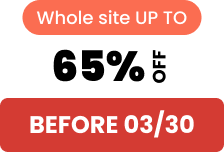
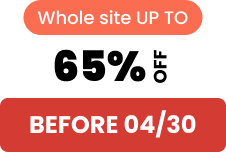
Update promo image, social media link

diff --git a/app/components/Footer/index.tsx b/app/components/Footer/index.tsx
@@ -48,6 +48,7 @@ function Footer({ categories }: FooterProps) {
         <div className="
           h-[105px] mt-10 w-full
           flex flex-col justify-between
+          max-w-screen-xl
           600:flex-row 600:mt-0
         ">
           <div className="
@@ -79,7 +80,7 @@ function Footer({ categories }: FooterProps) {
               className="mr-4"
               rel="noreferrer"
               target="_blank"
-              href="https://www.instagram.com/"
+              href="https://www.instagram.com/peasydeal"
             >
               <AiFillInstagram
                 color='#fff'
@@ -91,7 +92,7 @@ function Footer({ categories }: FooterProps) {
               className="mr-4"
               rel="noreferrer"
               target="_blank"
-              href="https://www.twitter.com/"
+              href="https://www.twitter.com/peasydeal"
             >
               <AiOutlineTwitter
                 color='#fff'
@@ -102,7 +103,7 @@ function Footer({ categories }: FooterProps) {
             <a
               rel="noreferrer"
               target="_blank"
-              href="https://facebook.com"
+              href="https://www.facebook.com/people/PeasyDeal/100090539543051/"
             >
               <SiFacebook
                 color='#fff'

diff --git a/app/routes/__index/promotion/structured_data.ts b/app/routes/__index/promotion/structured_data.ts
@@ -24,7 +24,8 @@ const structuredData: StructuredDataFunction = ({
     !loaderData ||
     !promotion ||
     !loaderData?.categories ||
-    Object.keys(loaderData.categories).length === 0
+    Object.keys(loaderData.categories).length === 0 ||
+    !data.categories[promotion]
   ) {
     return [];
   }

diff --git a/app/routes/__index/promotion/$promotion.tsx b/app/routes/__index/promotion/$promotion.tsx
@@ -43,6 +43,8 @@ export const meta: MetaFunction = ({ data, params }) => {
   if (
     !data ||
     !promotion ||
+    !data.categories ||
+    Object.keys(data.categories).length === 0 ||
     !data.categories[promotion]
   ) {
     return {
